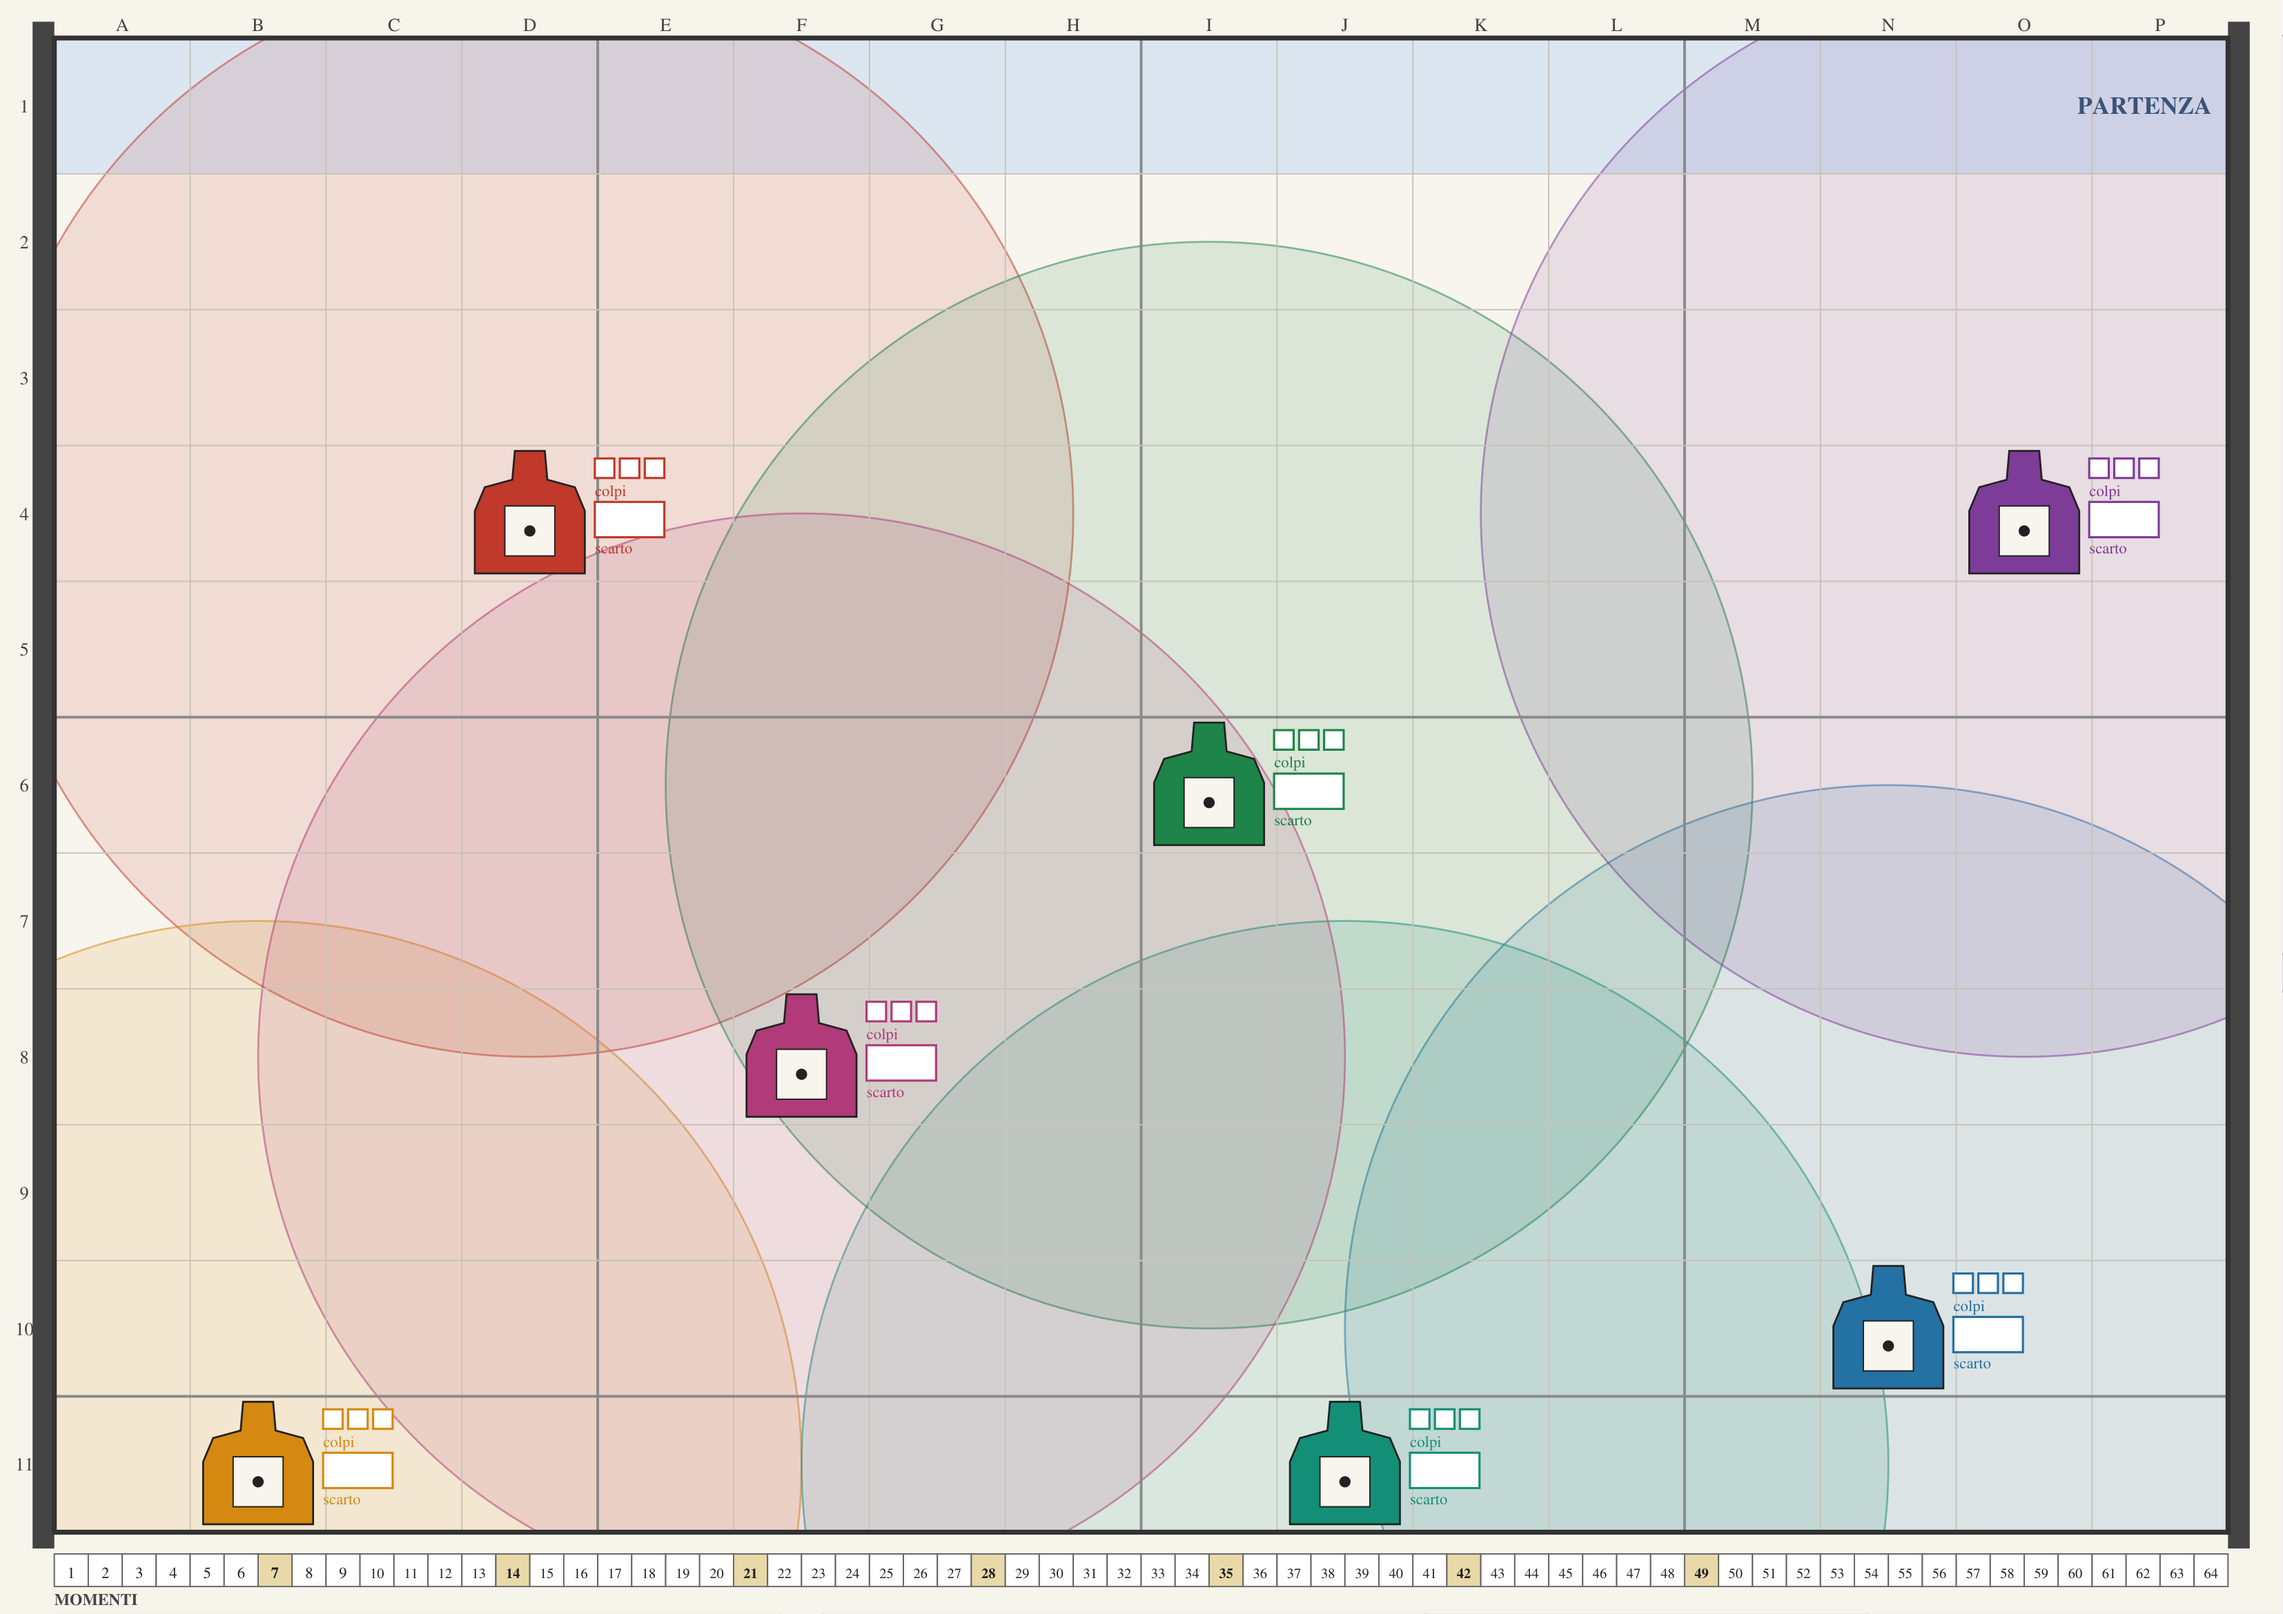
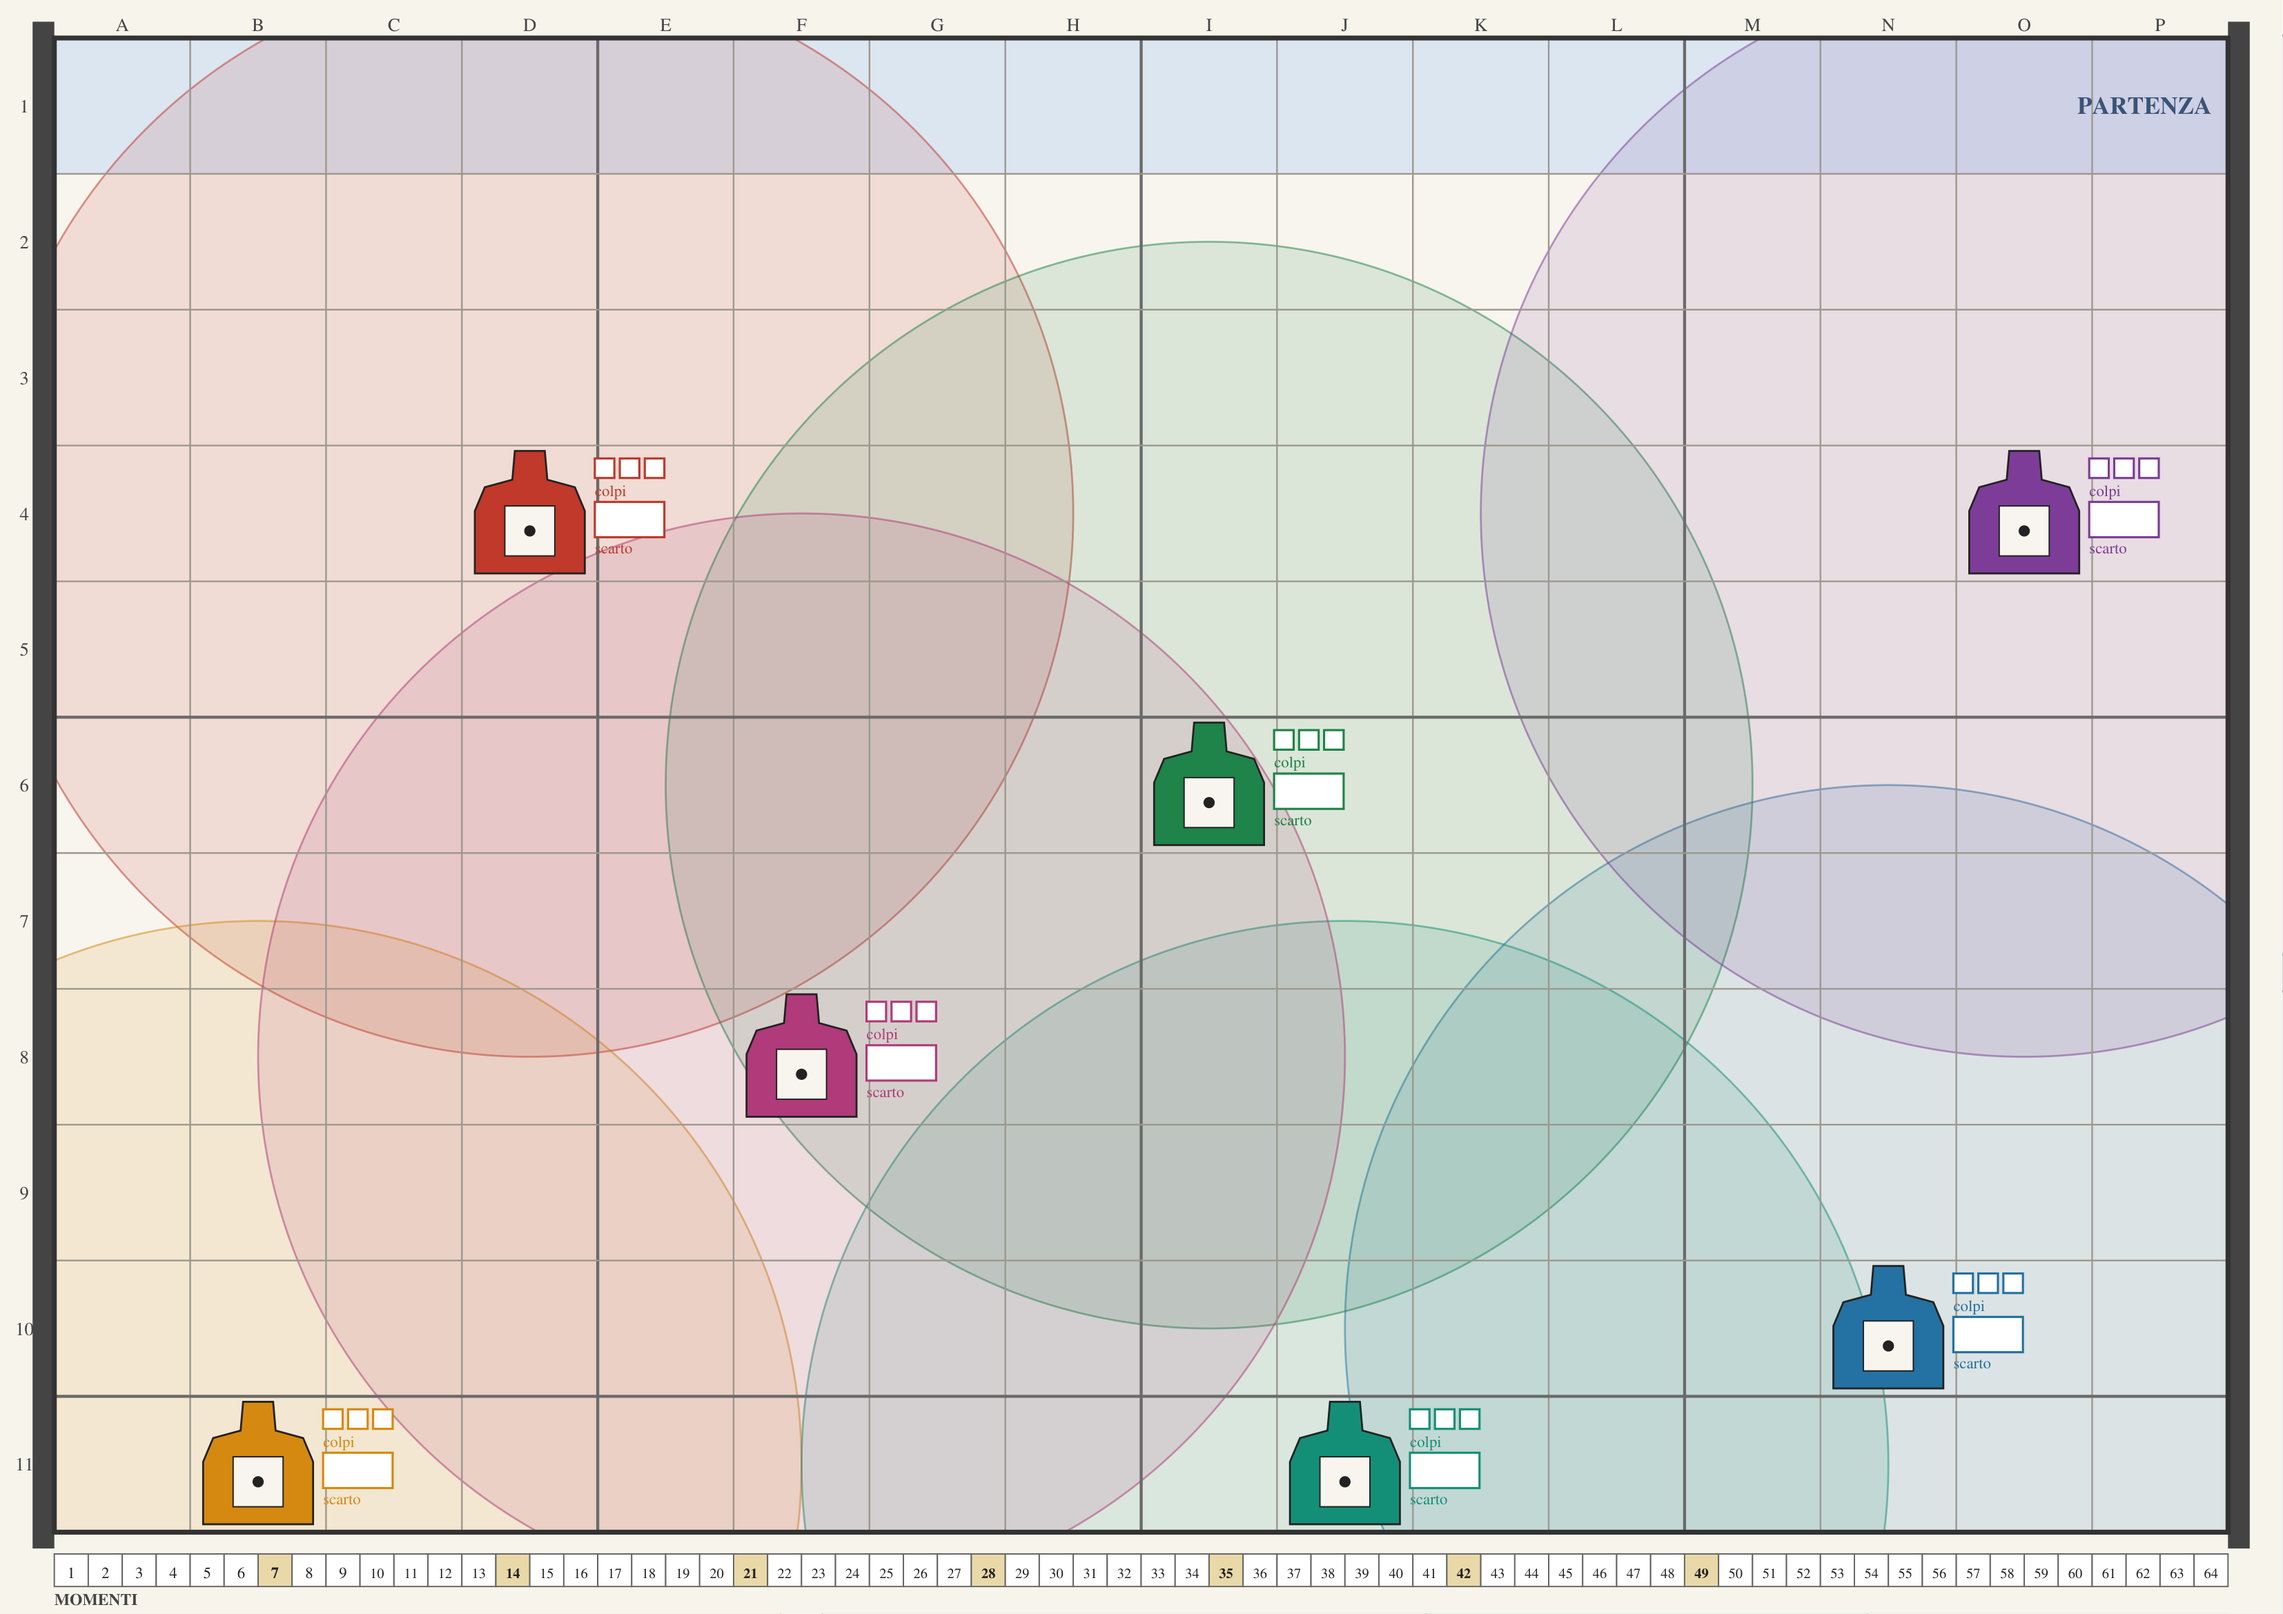
vault backup: 2026-09-22 15:45:11

diff --git a/Investigare/Avventura Ostaggi/Poligono/crea_mappa_poligono.py b/Investigare/Avventura Ostaggi/Poligono/crea_mappa_poligono.py
@@ -43,10 +43,10 @@ rect(LX, OY - 3, 4, FH + 6, fill="#444444")
 
 for c in range(COLS + 1):
     x = OX + c * S
-    line(x, OY, x, LY, stroke="#8a8a8a" if c % 4 == 0 else "#c8c4ba", sw=0.5 if c % 4 == 0 else 0.25)
+    line(x, OY, x, LY, stroke="#6a6a6a" if c % 4 == 0 else "#9c988e", sw=0.55 if c % 4 == 0 else 0.3)
 for r in range(ROWS + 1):
     y = OY + r * S
-    line(OX, y, LX, y, stroke="#8a8a8a" if r % 5 == 0 else "#c8c4ba", sw=0.5 if r % 5 == 0 else 0.25)
+    line(OX, y, LX, y, stroke="#6a6a6a" if r % 5 == 0 else "#9c988e", sw=0.55 if r % 5 == 0 else 0.3)
 rect(OX, OY, FW, FH, stroke="#333333", sw=0.9)
 text(LX - 3, OY + S / 2 + 1.5, "PARTENZA", 4.5, fill="#3a5478", bold=True, anchor="end")
 
